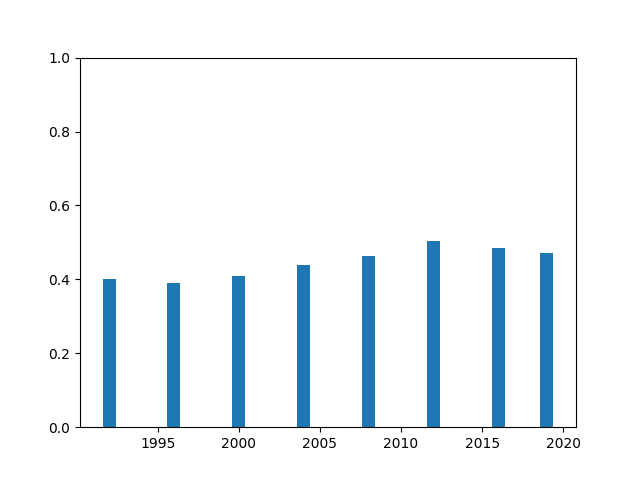
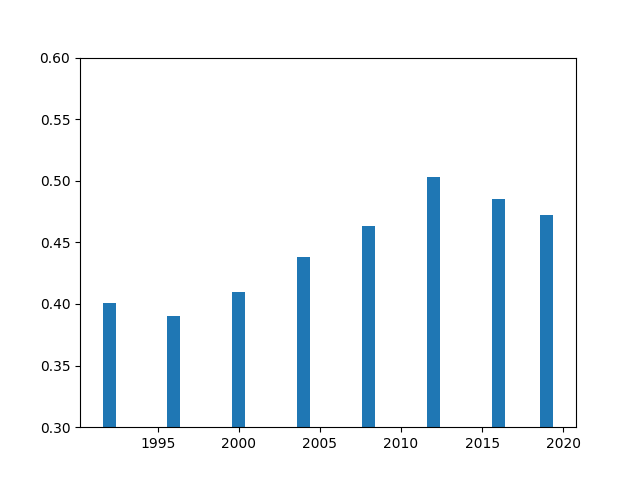
-

diff --git a/en/2019/05/stats.md b/en/2019/05/stats.md
@@ -751,7 +751,7 @@ wealth = [[1992, 5.69, 8.16, 8.32, 0.95],
 p = [0.01, 0.09, 0.40, 0.50]
 gini = [finutil.gini(p, r[1:]) for r in wealth]
 yrs = [r[0] for r in wealth]
-plt.ylim(0,1)
+plt.ylim(0.3,0.6)
 plt.bar(yrs, gini)
 print (gini)
 plt.savefig('gini.png')
